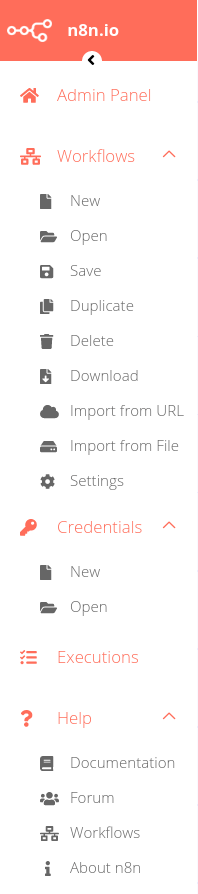
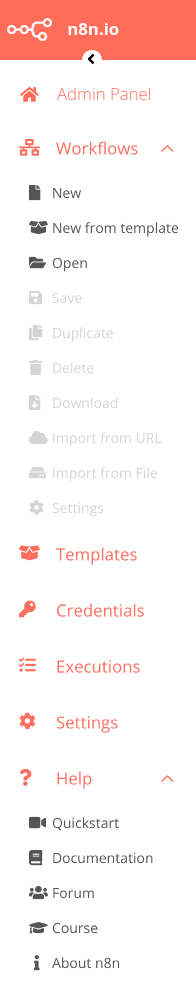
Update Left-side panel

diff --git a/docs/courses/level-one/chapter-1.md b/docs/courses/level-one/chapter-1.md
@@ -30,8 +30,10 @@ The panel contains the following sections:
 
 - *Admin Panel*: Access the management Dashboard (for n8n Cloud users).
 - *Workflows*: Contains operations for creating and editing workflows.
+- *Templates*: Contains pre-built workflows that can be searched.
 - *Credentials*: Contains operations for creating credentials.
 - *Executions*: Contains information about your workflow executions.
+- *Settings*: Contains editable configuration for the account and other things.
 - *Help*: Contains resources around n8n product and community.
 
 <figure style="text-align: center;"><img src="/_images/courses/level-one/chapter-one/Left-side-menu.png" alt="Editor UI left-side menu" style="height: 600px;"><figcaption align = "center"><i>Editor UI left-side menu</i></figcaption></figure>
